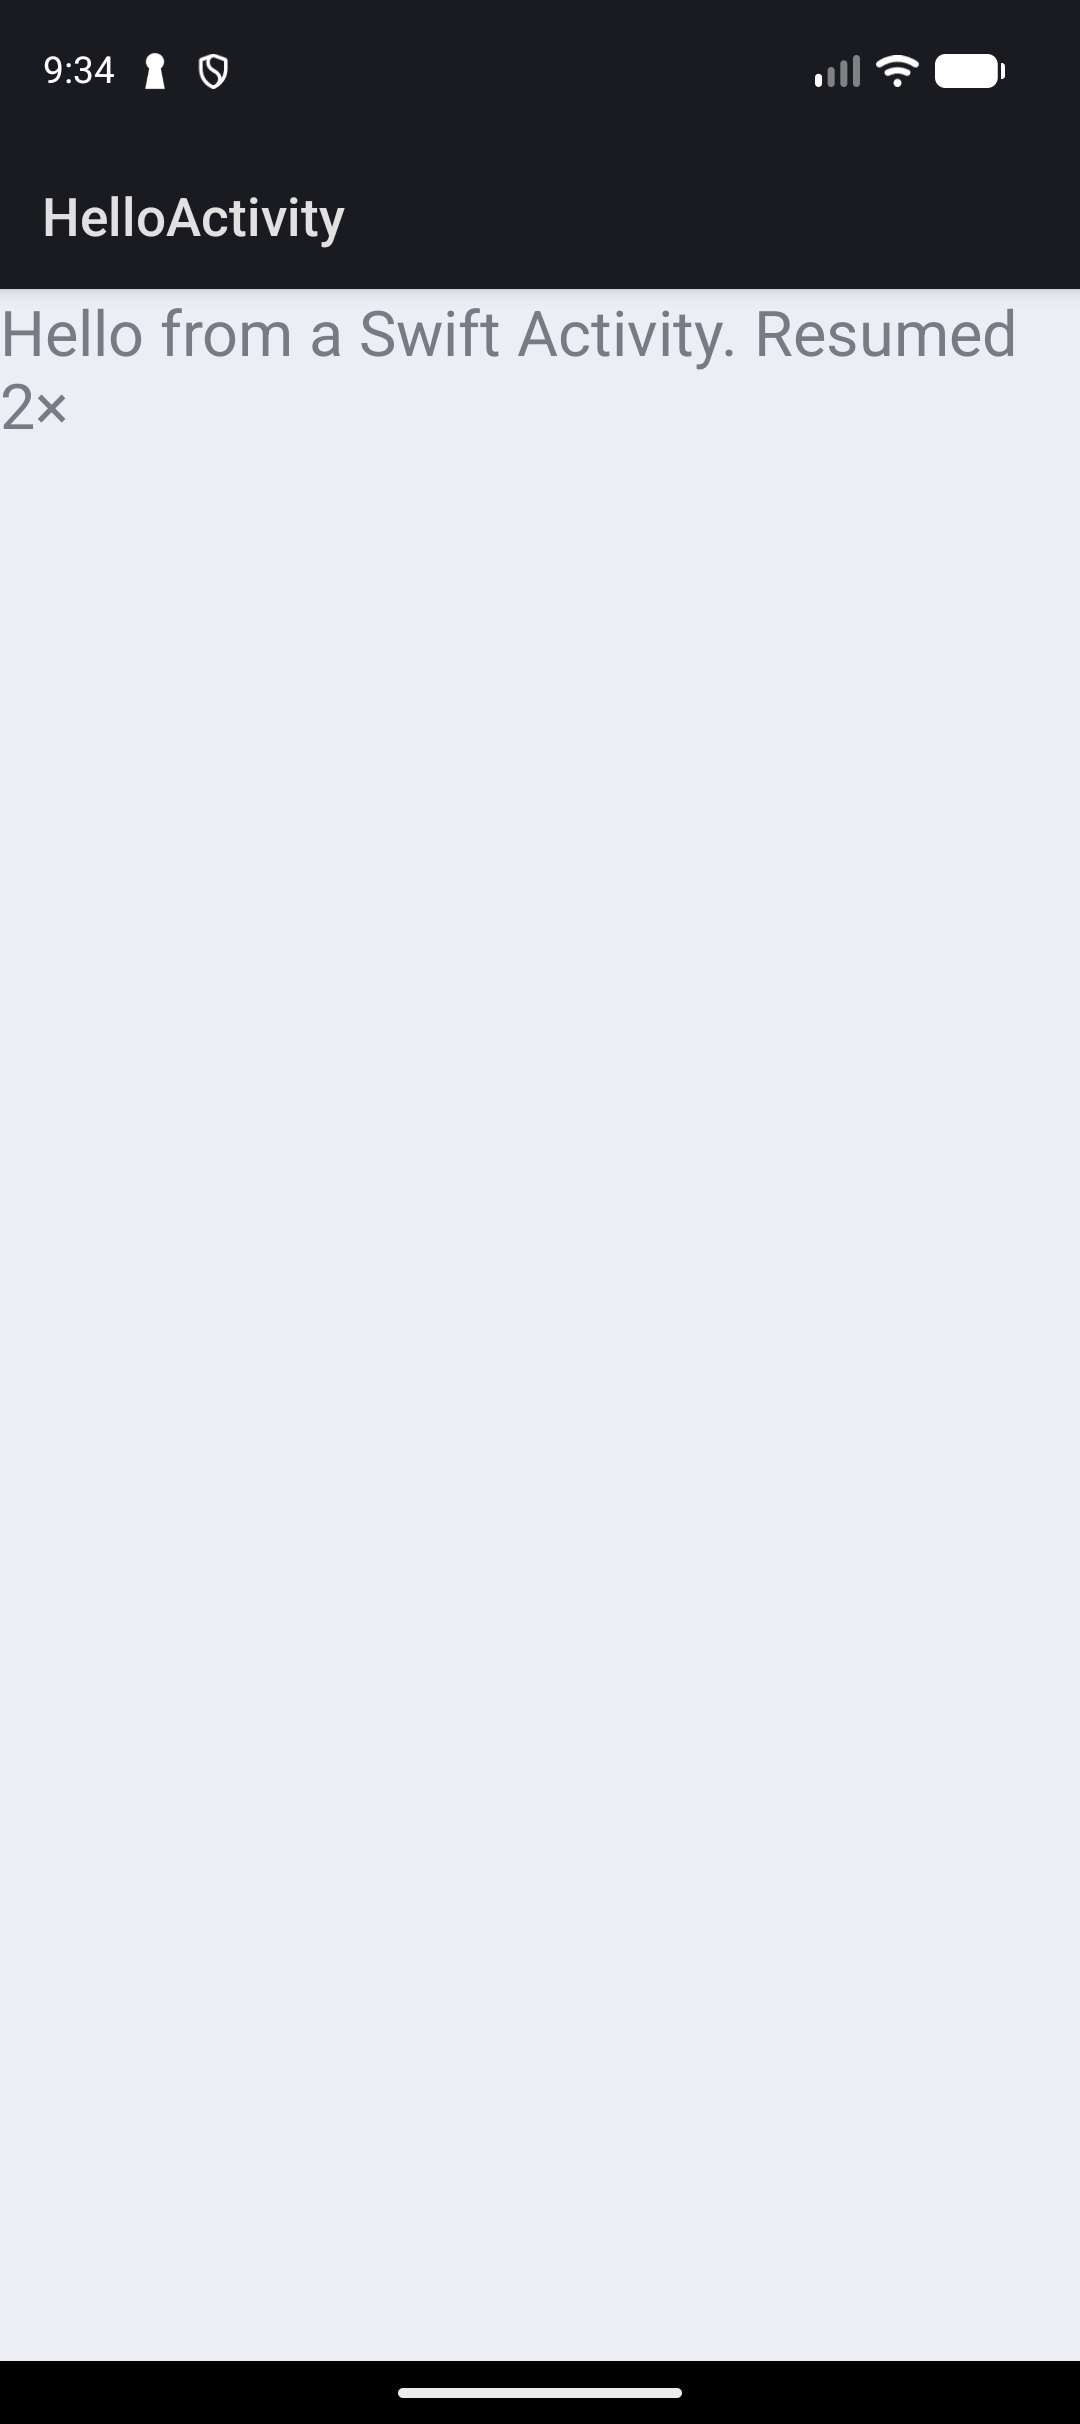
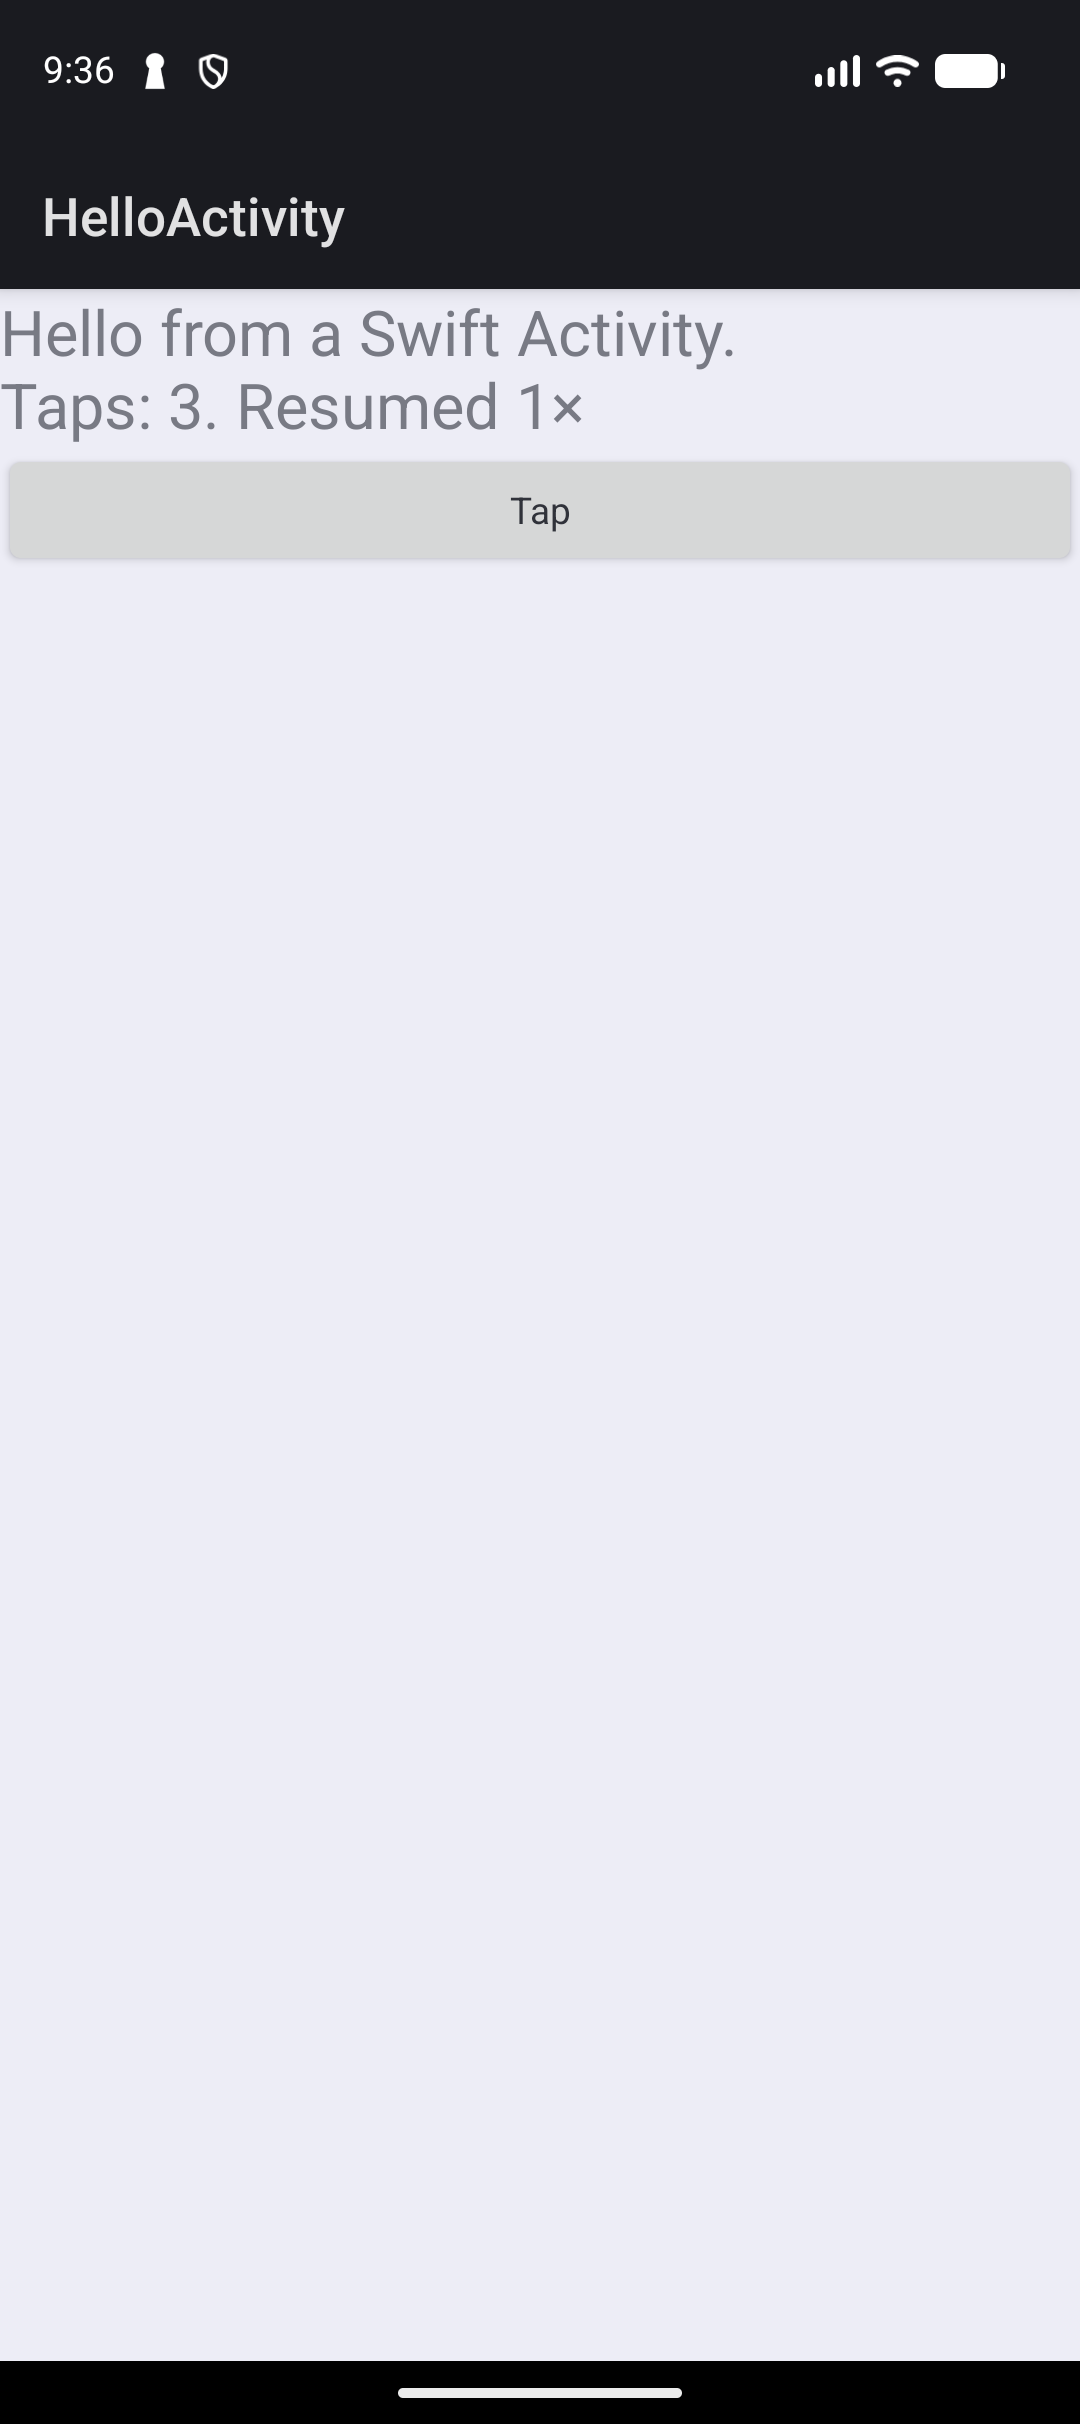
Pass Swift closures to Java as interfaces
AnyJavaObject.implemented(by:) makes a java.lang.reflect.Proxy for any wrapped interface whose
calls go to a Swift closure, through one Java handler class (swan.SwanProxy) that swift android
adds to each app. The closure is released from the handler's finalizer.

View.onClick uses it, and HelloActivity now counts button taps.

Changed region(s): [[0.0, 0.1547, 1.0, 0.2475], [0.7028, 0.1238, 0.9472, 0.1547], [0.7639, 0.0, 0.7944, 0.0309]]

diff --git a/Sources/SwanAndroid/Proxy.swift b/Sources/SwanAndroid/Proxy.swift
@@ -1,0 +1,60 @@
+import SwiftJava
+
+// A Swift closure as a Java interface.
+//
+// Java's own java.lang.reflect.Proxy makes an object that implements any interface and sends
+// every call to one handler. The handler is swan.SwanProxy (Java, added to each app by
+// swift android), which passes the call to the Swift closure it holds.
+
+@JavaClass("swan.SwanProxy")
+open class SwanProxy: JavaObject {}
+
+extension JavaClass<SwanProxy> {
+    @JavaStaticMethod
+    func make(_ interface: JavaClass<JavaObject>?, _ closure: Int64) -> JavaObject?
+}
+
+private final class Closure {
+    let body: (String, [JavaObject?]) -> JavaObject?
+    init(_ body: @escaping (String, [JavaObject?]) -> JavaObject?) { self.body = body }
+}
+
+extension AnyJavaObject {
+    /// A Java object that implements this interface by calling `body` with the method's name and
+    /// arguments. Return nil from `void` methods, and a boxed value (`JavaBoolean`, …) from
+    /// methods that return a primitive.
+    ///
+    /// The closure is released when Java garbage-collects the object.
+    public static func implemented(
+        environment: JNIEnvironment? = nil,
+        by body: @escaping (_ method: String, _ arguments: [JavaObject?]) -> JavaObject?
+    ) -> Self {
+        let environment = try! environment ?? JavaVirtualMachine.shared().environment()
+        let interface = try! JavaClass<Self>(environment: environment)
+        let closure = Int64(Int(bitPattern: Unmanaged.passRetained(Closure(body)).toOpaque()))
+        let proxy = try! JavaClass<SwanProxy>(environment: environment)
+            .make(JavaClass<JavaObject>(javaHolder: interface.javaHolder), closure)!
+        return Self(javaHolder: proxy.javaHolder)
+    }
+}
+
+/// Java: `SwanProxy.call(closure, method, arguments)`.
+@_cdecl("Java_swan_SwanProxy_call")
+func swanProxyCall(_ env: JNIEnvironment, _ type: jclass, _ closure: jlong, _ method: jstring?, _ arguments: jobjectArray?) -> jobject? {
+    let jni = env.interface
+    var objects: [JavaObject?] = []
+    if let arguments {
+        for index in 0..<jni.GetArrayLength(env, arguments) {
+            objects.append(jni.GetObjectArrayElement(env, arguments, index).map { JavaObject(javaThis: $0, environment: env) })
+        }
+    }
+    let body = Unmanaged<Closure>.fromOpaque(UnsafeRawPointer(bitPattern: Int(closure))!).takeUnretainedValue().body
+    let result = body(String(fromJNI: method, in: env), objects)
+    return result.flatMap { jni.NewLocalRef(env, $0.javaThis) }
+}
+
+/// Java: `SwanProxy.release(closure)`, from its finalizer.
+@_cdecl("Java_swan_SwanProxy_release")
+func swanProxyRelease(_ env: JNIEnvironment, _ type: jclass, _ closure: jlong) {
+    Unmanaged<Closure>.fromOpaque(UnsafeRawPointer(bitPattern: Int(closure))!).release()
+}

diff --git a/Sources/swift-android/App.swift b/Sources/swift-android/App.swift
@@ -67,6 +67,11 @@ func runApp(product: String, abi: String, api: String, libraries: [String], prod
         java += files(under: newest, withExtension: "java")
     }
     if !java.isEmpty {
+        try fm.createDirectory(atPath: "\(stage)/swan", withIntermediateDirectories: true)
+        try swanProxyJava.write(toFile: "\(stage)/swan/SwanProxy.java", atomically: true, encoding: .utf8)
+        java.append("\(stage)/swan/SwanProxy.java")
+    }
+    if !java.isEmpty {
         try run(["javac", "--release", "17", "-Xlint:-options", "-classpath", androidJar, "-d", "\(stage)/classes"] + java)
         try run(["\(tools)/d8", "--lib", androidJar, "--min-api", api, "--output", stage]
             + files(under: "\(stage)/classes", withExtension: "class"))
@@ -108,3 +113,43 @@ func runApp(product: String, abi: String, api: String, libraries: [String], prod
 func abi(forArch arch: String) -> String {
     ["aarch64": "arm64-v8a", "armv7": "armeabi-v7a"][arch] ?? arch
 }
+
+/// The Java half of `AnyJavaObject.implemented(by:)` in SwanAndroid: one handler class behind
+/// every Swift closure that stands in for a Java interface.
+let swanProxyJava = """
+    package swan;
+
+    import java.lang.reflect.InvocationHandler;
+    import java.lang.reflect.Method;
+    import java.lang.reflect.Proxy;
+
+    public final class SwanProxy implements InvocationHandler {
+        /// The Swift closure, retained until this object is collected.
+        private final long closure;
+
+        private SwanProxy(long closure) { this.closure = closure; }
+
+        public static Object make(Class<?> type, long closure) {
+            return Proxy.newProxyInstance(type.getClassLoader(), new Class<?>[] { type }, new SwanProxy(closure));
+        }
+
+        @Override
+        public Object invoke(Object proxy, Method method, Object[] arguments) {
+            if (method.getDeclaringClass() == Object.class) {
+                switch (method.getName()) {
+                    case "equals": return proxy == arguments[0];
+                    case "hashCode": return System.identityHashCode(proxy);
+                    default: return "SwanProxy@" + Long.toHexString(closure);
+                }
+            }
+            return call(closure, method.getName(), arguments);
+        }
+
+        private static native Object call(long closure, String method, Object[] arguments);
+        private static native void release(long closure);
+
+        @Override
+        protected void finalize() { release(closure); }
+    }
+
+    """

diff --git a/Sources/SwanAndroid/Android.swift b/Sources/SwanAndroid/Android.swift
@@ -10,7 +10,40 @@ open class Context: JavaObject {}
 open class Bundle: JavaObject {}
 
 @JavaClass("android.view.View")
-open class View: JavaObject {}
+open class View: JavaObject {
+    @JavaMethod
+    open func setOnClickListener(_ listener: OnClickListener?)
+
+    /// Calls `action` when the view is tapped.
+    public func onClick(_ action: @escaping (View?) -> Void) {
+        setOnClickListener(.implemented(environment: javaEnvironment) { _, arguments in
+            action(arguments.first??.as(View.self))
+            return nil
+        })
+    }
+}
+
+@JavaInterface("android.view.View$OnClickListener")
+public struct OnClickListener {
+    @JavaMethod
+    public func onClick(_ view: View?)
+}
+
+@JavaClass("android.view.ViewGroup")
+open class ViewGroup: View {
+    @JavaMethod
+    open func addView(_ child: View?)
+}
+
+@JavaClass("android.widget.LinearLayout")
+open class LinearLayout: ViewGroup {
+    @JavaMethod
+    @_nonoverride public convenience init(_ context: Context?, environment: JNIEnvironment? = nil)
+
+    /// 0 is horizontal, 1 is vertical.
+    @JavaMethod
+    open func setOrientation(_ orientation: Int32)
+}
 
 @JavaClass("android.widget.TextView")
 open class TextView: View {
@@ -42,4 +75,10 @@ open class Activity: Context {
 
     @JavaMethod
     open func setContentView(_ view: View?)
+}
+
+@JavaClass("android.widget.Button")
+open class Button: TextView {
+    @JavaMethod
+    @_nonoverride public convenience init(_ context: Context?, environment: JNIEnvironment? = nil)
 }

diff --git a/Examples/HelloActivity/Sources/HelloActivity/MainActivity.swift b/Examples/HelloActivity/Sources/HelloActivity/MainActivity.swift
@@ -2,21 +2,38 @@ import SwanAndroid
 
 final class MainActivity: Activity {
     /// Swift state: it survives between callbacks because the Java object keeps this one alive.
+    var taps = 0
     var resumes = 0
-    var text: TextView?
+    var label: TextView?
 
     override func onCreate(_ state: Bundle?) {
         super.onCreate(state)
-        let text = TextView(self)
-        text.setTextSize(24)
-        text.setText("Hello from a Swift Activity")
-        setContentView(text)
-        self.text = text
+
+        let label = TextView(self)
+        label.setTextSize(24)
+        self.label = label
+
+        let button = Button(self)
+        button.setText("Tap")
+        button.onClick { [unowned self] _ in
+            taps += 1
+            update()
+        }
+
+        let column = LinearLayout(self)
+        column.setOrientation(1)
+        column.addView(label)
+        column.addView(button)
+        setContentView(column)
     }
 
     override func onResume() {
         super.onResume()
         resumes += 1
-        text?.setText("Hello from a Swift Activity. Resumed \(resumes)×")
+        update()
+    }
+
+    func update() {
+        label?.setText("Hello from a Swift Activity.\nTaps: \(taps). Resumed \(resumes)×")
     }
 }
